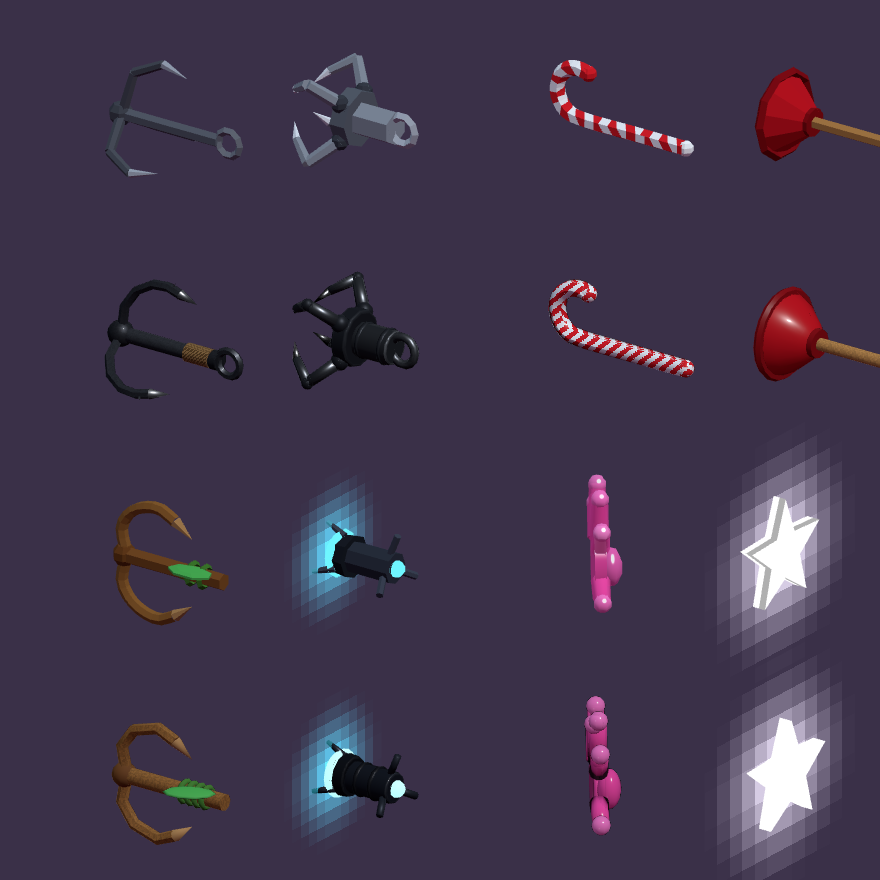
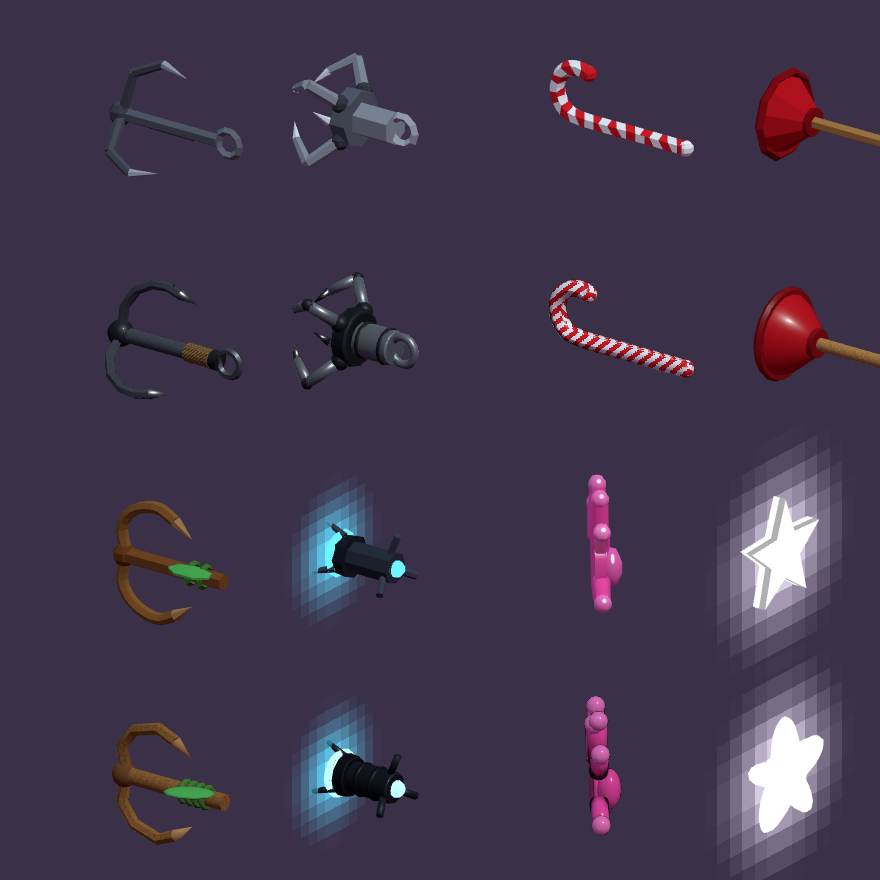
Rainbow grapple: the star is a puffy rounded pillow now, not a flat cut-out, and glows half as hard so its shape shows
Claude-Session: https://claude.ai/code/session_011tKQCrFseJjmPmC88Sb2bs

diff --git a/public/js/grapple.js b/public/js/grapple.js
@@ -314,7 +314,7 @@ function authoredHook(id, st) {
     const mats = new Set();
     a.obj.traverse((o) => { if (o.isMesh) for (const m of [].concat(o.material)) mats.add(m); });
     const t0 = st.tick, c = flares[0].material.color;
-    st.tick = (u, t) => { t0(u, t); for (const m of mats) { m.color.copy(c); if (m.emissive) m.emissive.copy(c); } };
+    st.tick = (u, t) => { t0(u, t); for (const m of mats) { m.color.copy(c); if (m.emissive) m.emissive.copy(c).multiplyScalar(0.5); } }; // (half glow: the puffy star keeps its shading)
   }
   st.hook = g;
 }

diff --git a/tools/blender/make_grapples.py b/tools/blender/make_grapples.py
@@ -137,19 +137,29 @@ def sticky():
 
 # ------------------------------------------------------------------------------------------------ rainbow: the star
 def rainbow():
-    glow = mat('gw_star', 0xffffff, emit=0xffffff, strength=1.5); edge = mat('gw_edge', 0xb0b0b0, emit=0xb0b0b0, strength=1.0)
-    pts = []
-    for i in range(10): a = i / 10 * math.pi * 2; r = 0.085 if i % 2 else 0.2; pts.append((math.sin(a) * r, math.cos(a) * r))
+    """a puffy star: a pillow of rings, each the star's outline (points rounded off) shrinking toward its two faces,
+    so it's fat in the middle with a soft bevel all round (not a cardboard cut-out)"""
+    glow = mat('gw_star', 0xffffff, emit=0xffffff, strength=1.5)
+    N = 60  # points round the outline: the 5 tips and 5 notches with soft curves between
+    def outline(k):
+        a = k / N * math.pi * 2; t = 0.5 + 0.5 * math.cos(5 * a)  # 1 at a tip, 0 at a notch
+        r = 0.09 + 0.12 * t ** 1.6
+        return math.sin(a) * r, math.cos(a) * r
+    zc, depth = -0.065, 0.055  # (the middle plane and half its thickness, where the code star was)
+    rings = []
+    for j in range(9):  # front face to back face
+        u = -1 + 2 * j / 8; sc = math.sqrt(max(0.0, 1 - u * u)) * 0.88 + 0.12; dz = u * depth
+        rings.append([gv(x * sc, y * sc, zc + dz) for (x, y) in (outline(k) for k in range(N))])
     bm = bmesh.new()
-    def ring_at(z, k=1.0): return [bm.verts.new(gv(x * k, y * k, z)) for (x, y) in pts]
-    front, back = ring_at(-0.04), ring_at(-0.09)
-    cf, cb = bm.verts.new(gv(0, 0, -0.025)), bm.verts.new(gv(0, 0, -0.105))  # (puffy: a low point in the middle of each face)
-    for i in range(10):
-        j = (i + 1) % 10
-        bm.faces.new((front[i], front[j], back[j], back[i]))
-        bm.faces.new((cf, front[j], front[i])); bm.faces.new((cb, back[i], back[j]))
+    vs = [[bm.verts.new(p) for p in r] for r in rings]
+    for a, b in zip(vs, vs[1:]):
+        for k in range(N): bm.faces.new((a[k], a[(k + 1) % N], b[(k + 1) % N], b[k]))
+    for r in (vs[0], vs[-1]):  # each face closed with a fan to a slightly domed middle
+        c = bm.verts.new(sum((v.co for v in r), Vector()) / N)
+        for k in range(N): bm.faces.new((c, r[k], r[(k + 1) % N]))
     bmesh.ops.recalc_face_normals(bm, faces=bm.faces)
-    star = _obj('gw_star', bm, glow); smooth(star, 20)
+    star = _obj('gw_star', bm, glow)
+    for p in star.data.polygons: p.use_smooth = True
     return done('x_grap_rainbow', [part([star], 'hook_star')], {'id': 'rainbow', 'tail': 0.06})
 
 
